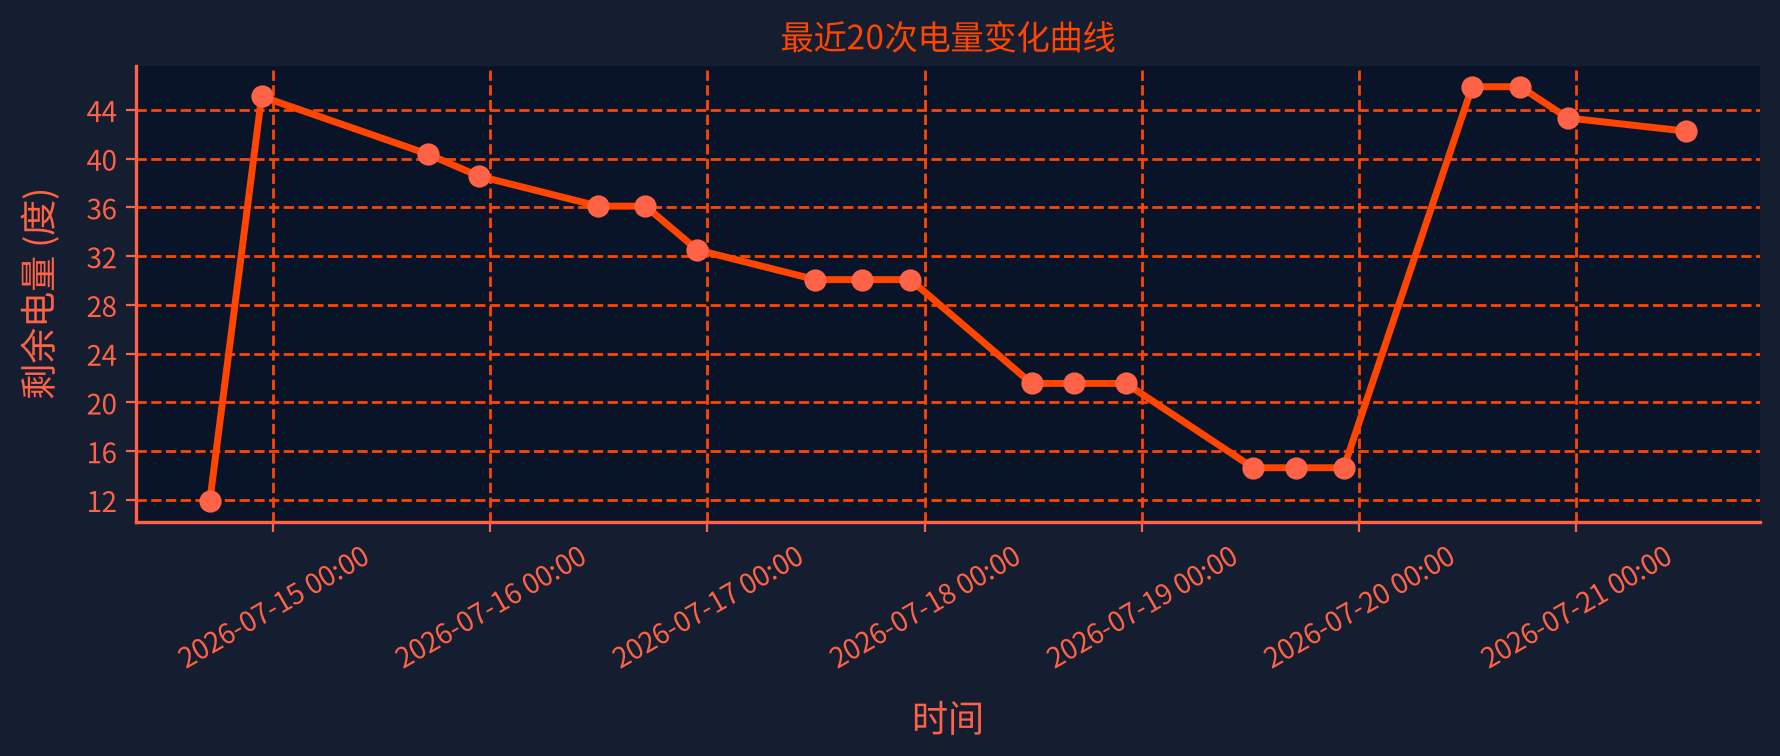
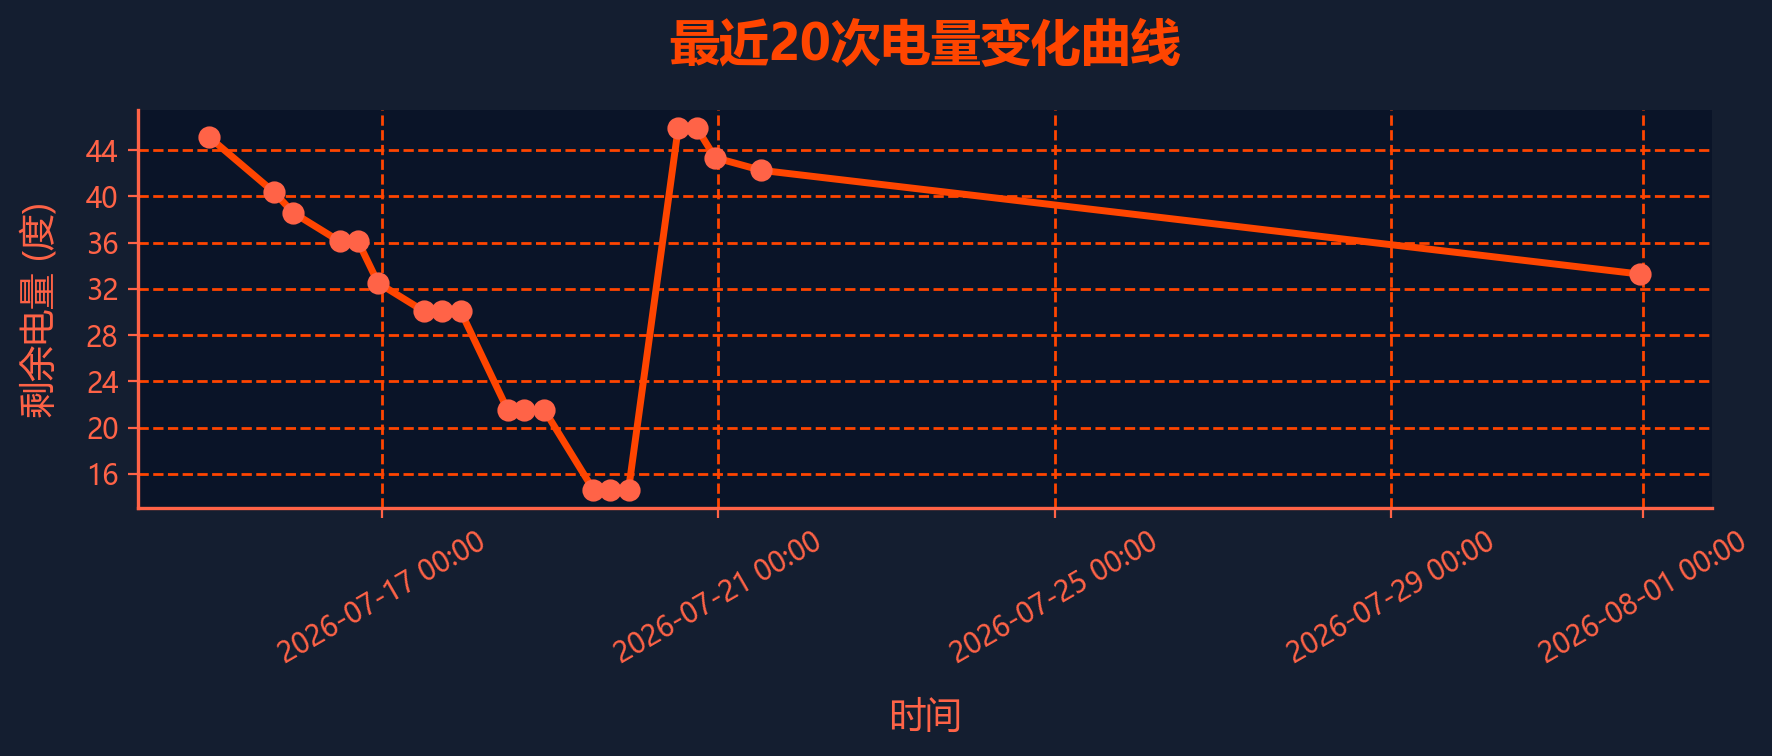
refactor: 重构验证码处理逻辑，新增自动下载ChromeDriver支持
1. 重构handle_captcha验证流程，拆分登录和验证步骤
2. 新增本地ChromeDriver缺失时自动下载的降级方案
3. 移除handle_slider_verification内重复的登录按钮点击逻辑
4. 添加webdriver-manager依赖以支持自动驱动下载
5. 更新电量数据和相关资源文件

diff --git a/src/nju_electric_monitor_auto.py b/src/nju_electric_monitor_auto.py
@@ -217,14 +217,21 @@ class NJUElectricMonitor:
         try:
             chromedriver_path = os.path.join(os.path.dirname(__file__), '..', 'chromedriver-win64', 'chromedriver.exe')
             if not os.path.exists(chromedriver_path):
-                raise FileNotFoundError(f"本地ChromeDriver不存在: {chromedriver_path}，请确保chromedriver-win64目录存在并包含chromedriver.exe")
+                raise FileNotFoundError(f"本地ChromeDriver不存在: {chromedriver_path}")
             service = Service(chromedriver_path)
             self.driver = webdriver.Chrome(service=service, options=chrome_options)
             self.wait = WebDriverWait(self.driver, 20)
             self.logger.info(f"使用本地ChromeDriver: {chromedriver_path}")
         except Exception as e:
-            self.logger.error(f"浏览器驱动初始化失败: {e}")
-            raise
+            self.logger.warning(f"本地ChromeDriver初始化失败，尝试使用Selenium内置Manager自动下载: {e}")
+            try:
+                # Selenium 4.6+ 内置 Selenium Manager，自动下载匹配当前 Chrome 版本的 ChromeDriver
+                self.driver = webdriver.Chrome(options=chrome_options)
+                self.wait = WebDriverWait(self.driver, 20)
+                self.logger.info("使用 Selenium 内置 Manager 自动下载的 ChromeDriver")
+            except Exception as e2:
+                self.logger.error(f"ChromeDriver 自动下载最终失败: {e2}")
+                raise
     
     def setup_ocr(self):
         """设置OCR识别器（使用 ddddocr，免模型文件管理）"""
@@ -778,17 +785,13 @@ class NJUElectricMonitor:
 
     def handle_slider_verification(self, max_rounds=3):
         """
-        处理滑块验证：点击登录 → 等待滑块出现 → 多轮重试（检测缺口 → 拖拽）。
+        处理滑块验证：等待滑块出现 → 多轮重试（检测缺口 → 拖拽）。
+        注意：登录按钮已由 handle_captcha() 点击，此处不再重复点击。
         每轮重试会重新截取canvas、重新检测缺口、重新拖拽。
         返回 True 表示验证通过，False 表示验证失败。
         """
         try:
             self.logger.info("开始处理滑块验证...")
-
-            # 先点击登录按钮触发滑块验证
-            if not self.click_login_button():
-                self.logger.error("点击登录按钮触发滑块失败")
-                return False
 
             # 等待滑块验证出现（最多 5 秒）
             slider_appeared = False
@@ -859,27 +862,38 @@ class NJUElectricMonitor:
 
     def handle_captcha(self):
         """
-        统一验证处理入口：先判断验证方式，再分发到对应处理器。
-        - 'captcha' → 传统验证码 OCR 识别
-        - 'slider'  → 滑块验证（点击登录后触发）
-        - 'none'    → 无需验证，直接尝试登录
+        统一验证处理入口：
+        1. 先检测页面上是否有传统验证码（captchaImg）→ 有则走 OCR 流程
+        2. 没有传统验证码 → 点击登录按钮
+        3. 点击登录后检测是否弹出滑块验证 → 有则走滑块流程
+        4. 都没有 → 无需验证，直接等待登录成功
         """
-        # 先检测当前页面的验证方式
+        # 第一步：检测页面上是否有传统验证码（登录前可见）
         vtype = self.detect_verification_type()
-        self.logger.info(f"当前验证方式: {vtype}")
+        self.logger.info(f"登录前验证方式检测: {vtype}")
 
-        if vtype == 'slider':
-            # 滑块验证：点击登录后触发
-            return self.handle_slider_verification()
-
-        elif vtype == 'captcha':
+        if vtype == 'captcha':
             # 传统验证码：走原有 OCR 流程
             return self._handle_captcha_ocr()
 
-        else:
-            # 无需验证，直接尝试登录
-            self.logger.info("未检测到验证方式，直接尝试登录")
-            return self.click_login_button()
+        # 第二步：没有传统验证码，先点击登录按钮
+        self.logger.info("未检测到传统验证码，点击登录按钮...")
+        if not self.click_login_button():
+            self.logger.error("点击登录按钮失败")
+            return False
+
+        # 第三步：点击登录后等待 2 秒，再检测是否弹出滑块验证
+        time.sleep(2)
+        vtype_after = self.detect_verification_type()
+        self.logger.info(f"登录后验证方式检测: {vtype_after}")
+
+        if vtype_after == 'slider':
+            # 滑块验证弹出，处理滑块
+            return self.handle_slider_verification()
+
+        # 第四步：没有滑块，说明无需验证，等待登录成功
+        self.logger.info("未检测到滑块验证，等待登录成功...")
+        return self.wait_for_login_success()
 
     def _handle_captcha_ocr(self):
         """处理传统验证码（两层嵌套重试：页面刷新 + 同图多次 OCR）"""
